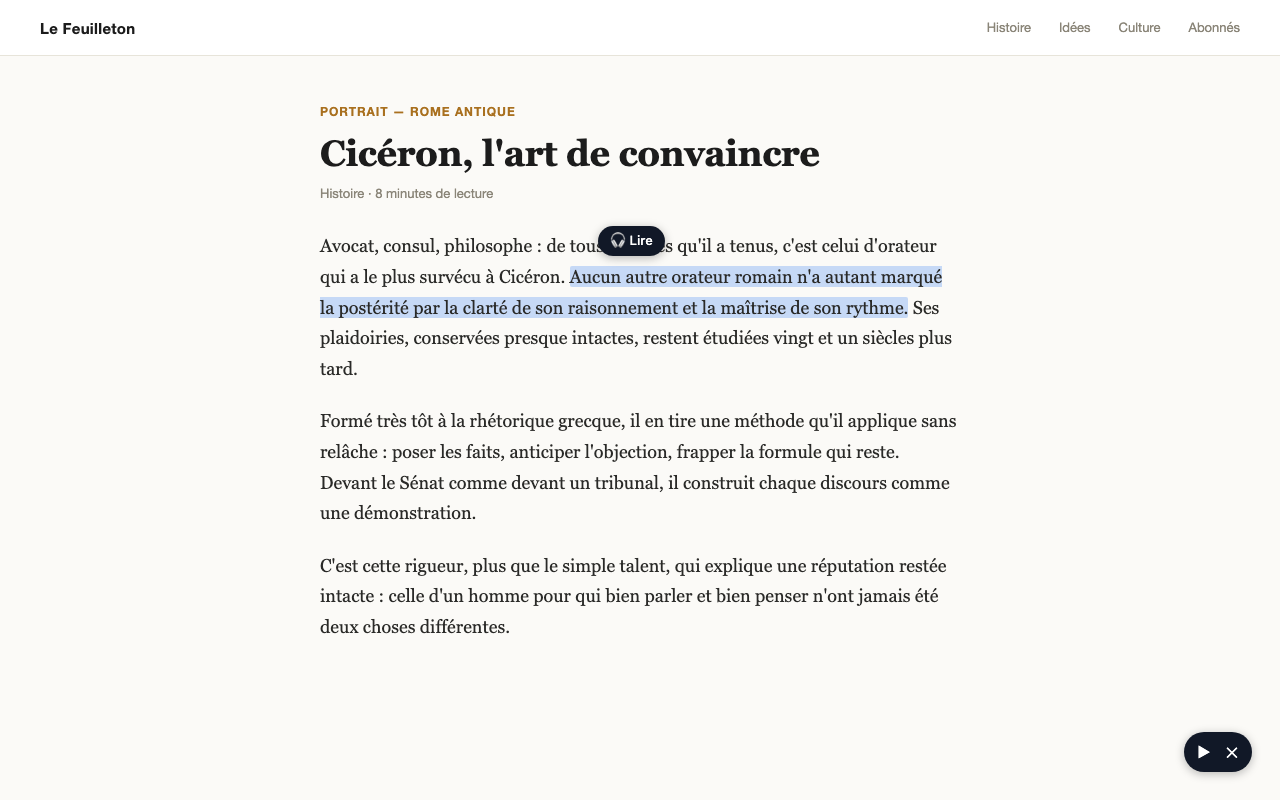
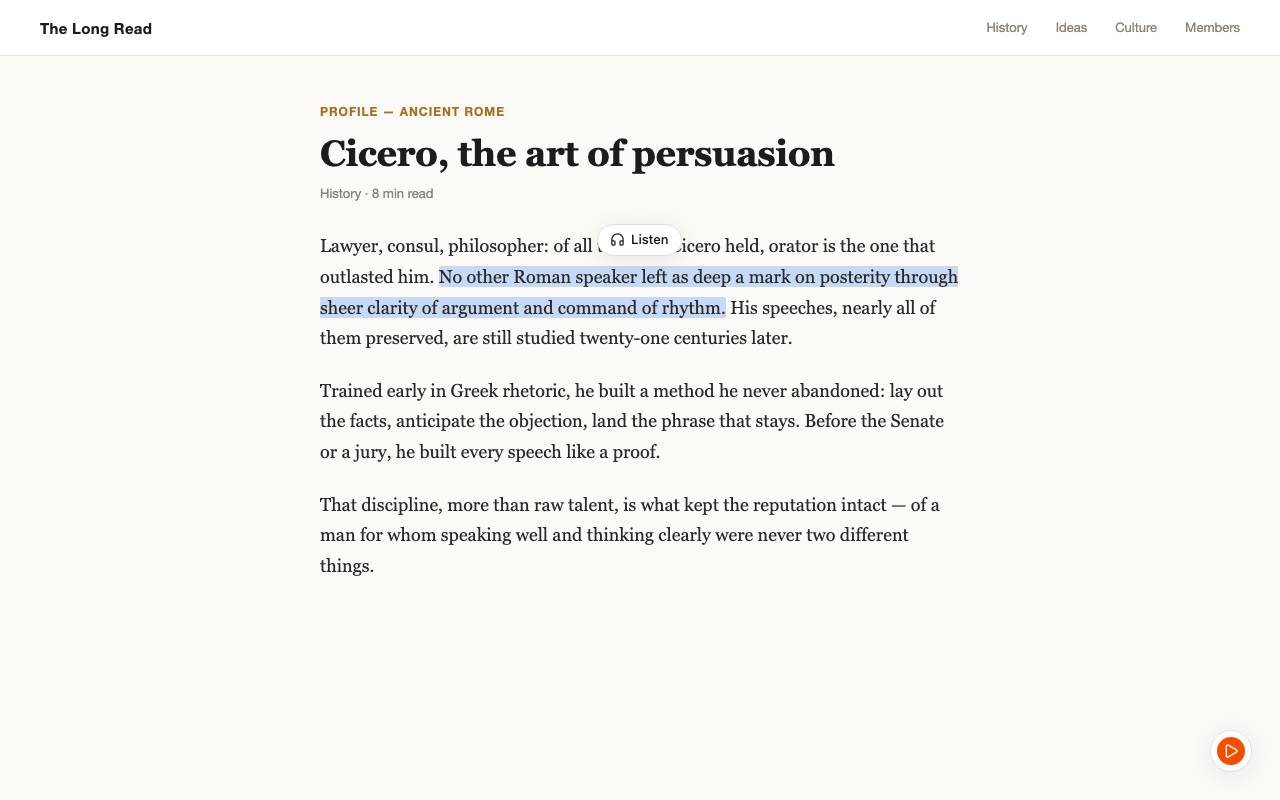
docs: mettre à jour les captures d'écran et l'objectif unique (EN)
Le produit a bougé (default_locale anglais, nouvelle charte claire,
4e entrée de menu contextuel) depuis les premières captures : elles
montraient une UI française obsolète (emoji, pastille sombre, 3 entrées).
Refaites en anglais avec la charte actuelle (lib/charte.ts).

Ajoute aussi la description d'objectif unique manquante pour l'onglet
Confidentialité du Developer Dashboard.

diff --git a/docs/store-listing.en.md b/docs/store-listing.en.md
@@ -67,6 +67,15 @@ Details: https://github.com/ekimkael/orateur-extension/blob/main/PRIVACY.md
 
 ---
 
+## Single purpose description (Chrome Web Store Privacy tab)
+
+```
+Orateur reads the current page's article, or any selected text, out loud —
+either right on the page (system voice or an optional on-device neural
+voice) or by sending it to the Orateur web app to listen there. That is the
+extension's only function.
+```
+
 ## Permission justifications (Chrome Web Store and Edge)
 
 ### `<all_urls>` — host + content scripts
